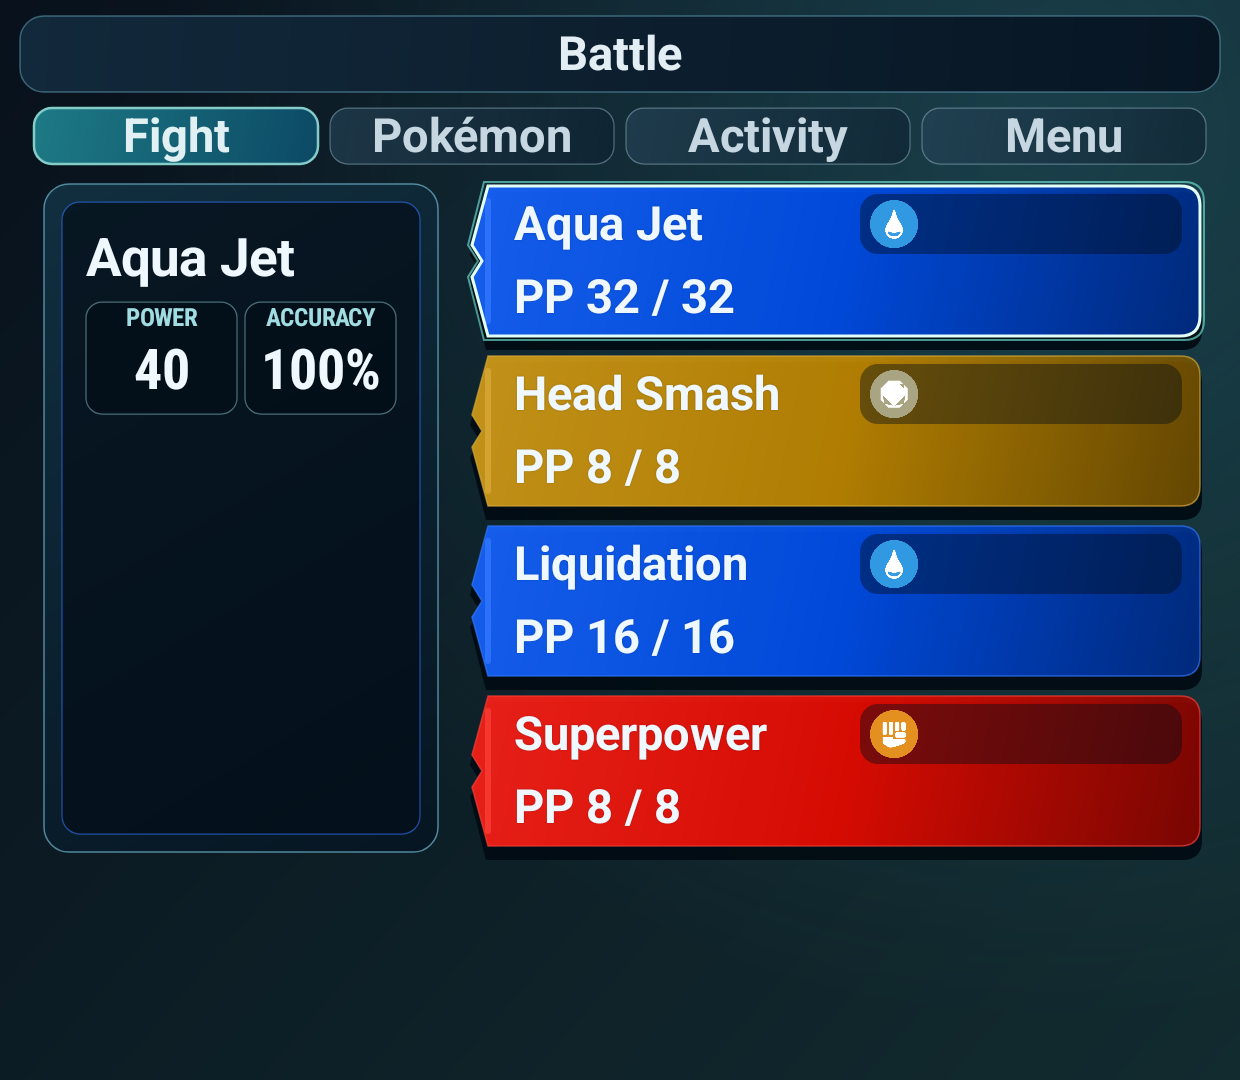
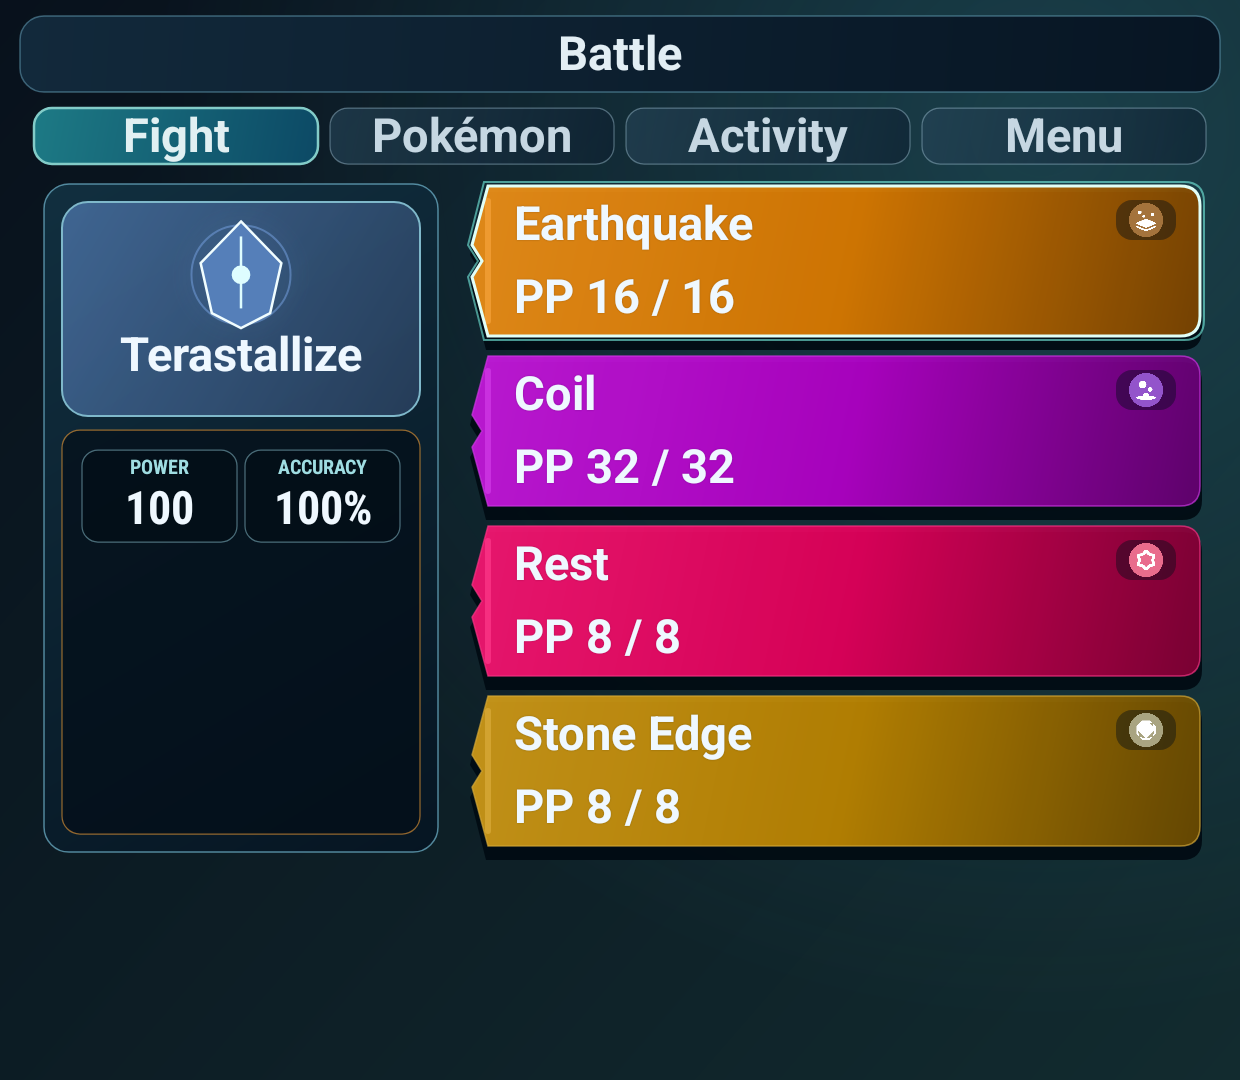
fix: simplify Thor battle controls

diff --git a/app/src/main/kotlin/dev/adrian/showdown/CommandDeckView.kt b/app/src/main/kotlin/dev/adrian/showdown/CommandDeckView.kt
@@ -456,13 +456,7 @@ class CommandDeckView(
             drawCompactMoveDetails(canvas, detailContent, move, scale)
             return
         }
-        paint.textAlign = Paint.Align.LEFT
-        paint.typeface = android.graphics.Typeface.create("sans-serif", android.graphics.Typeface.BOLD)
-        paint.textSize = fittedTextSize(move.name, detailContent.width(), readableTextSize(34f, scale, 29f, 20f), 22f * scale)
-        paint.color = PAPER
-        val titleRow = RectF(detailContent.left, detailContent.top, detailContent.right, detailContent.top + if (compact) 58f * scale else 64f * scale)
-        canvas.drawText(move.name, detailContent.left, centeredTextBaseline(titleRow.centerY()), paint)
-        var sectionTop = titleRow.bottom + if (compact) 8f * scale else 12f * scale
+        var sectionTop = detailContent.top
         val metricHeight = if (compact) 92f * scale else 112f * scale
         drawMoveMetrics(
             canvas,
@@ -487,24 +481,8 @@ class CommandDeckView(
         scale: Float
     ) {
         val content = RectF(detailContent)
-        val gap = 8f * scale
-        val rowHeight = ((content.height() - gap) / 2f).coerceAtLeast(1f)
-        var sectionTop = content.top
-        val titleBounds = RectF(content.left, sectionTop, content.right, sectionTop + rowHeight)
-        paint.textAlign = Paint.Align.LEFT
-        paint.typeface = android.graphics.Typeface.create("sans-serif", android.graphics.Typeface.BOLD)
-        paint.textSize = fittedTextSize(
-            move.name,
-            content.width(),
-            readableTextSize(30f, scale, 26f, 16f),
-            20f * scale
-        ).coerceAtMost(rowHeight - 6f * scale)
-        paint.color = PAPER
-        canvas.drawText(move.name, content.left, centeredTextBaseline(titleBounds.centerY()), paint)
-        sectionTop = titleBounds.bottom + gap
         val accuracy = move.accuracy.takeUnless { it == "—" }?.let { "$it%" } ?: "—"
-        val metricsBounds = RectF(content.left, sectionTop, content.right, sectionTop + rowHeight)
-        drawCompactMetricLine(canvas, metricsBounds, "PWR ${move.power}  ·  ACC $accuracy", scale)
+        drawCompactMetricLine(canvas, content, "PWR ${move.power}  ·  ACC $accuracy", scale)
         paint.textAlign = Paint.Align.LEFT
     }
 
@@ -782,13 +760,12 @@ class CommandDeckView(
             paint.style = Paint.Style.FILL
         }
         drawMovePressAnimation(canvas, surface, palette, pressProgress, scale)
-        val typeBadge = RectF(surface.right - 340f * scale, surface.top + 8f * scale, surface.right - 18f * scale, surface.top + 68f * scale)
+        val iconChip = RectF(surface.right - 84f * scale, surface.top + 14f * scale, surface.right - 24f * scale, surface.top + 54f * scale)
         paint.color = Color.argb(108, 0, 14, 25)
-        canvas.drawRoundRect(typeBadge, 18f * scale, 18f * scale, paint)
+        canvas.drawRoundRect(iconChip, 16f * scale, 16f * scale, paint)
         typeIcon(move.type)?.let { icon ->
             source.set(0, 0, icon.width, icon.height)
-            val iconCenterX = typeBadge.left + 34f * scale
-            destination.set(iconCenterX - 24f * scale, typeBadge.centerY() - 24f * scale, iconCenterX + 24f * scale, typeBadge.centerY() + 24f * scale)
+            destination.set(iconChip.centerX() - 17f * scale, iconChip.centerY() - 17f * scale, iconChip.centerX() + 17f * scale, iconChip.centerY() + 17f * scale)
             paint.alpha = 255
             canvas.drawBitmap(icon, source, destination, paint)
         }
@@ -798,7 +775,7 @@ class CommandDeckView(
         val moveNameLeft = surface.left + 42f * scale
         drawSoftText(
             canvas,
-            fitTextToWidth(move.name, typeBadge.left - moveNameLeft - 16f * scale),
+            fitTextToWidth(move.name, iconChip.left - moveNameLeft - 16f * scale),
             moveNameLeft,
             surface.top + 54f * scale,
             PAPER,
@@ -950,8 +927,15 @@ class CommandDeckView(
             gimmickBounds[index] = card
             val selected = session.selectedGimmick == gimmick
             val glow = (0.56f + 0.44f * kotlin.math.sin(phase * 4f + index)).coerceIn(0f, 1f)
+            val typePalette = if (gimmick == BattleSession.BattleGimmick.TERASTALLIZATION) {
+                movePalette(session.terastallizeType().uppercase())
+            } else {
+                null
+            }
             if (selected) {
-                paint.shader = LinearGradient(
+                paint.shader = typePalette?.let { palette ->
+                    LinearGradient(card.left, card.top, card.right, card.bottom, intArrayOf(palette.highlight, palette.base, palette.shadow), floatArrayOf(0f, 0.52f, 1f), Shader.TileMode.CLAMP)
+                } ?: LinearGradient(
                     card.left,
                     card.top,
                     card.right,
@@ -961,7 +945,9 @@ class CommandDeckView(
                     Shader.TileMode.CLAMP
                 )
             } else {
-                paint.shader = LinearGradient(card.left, card.top, card.right, card.bottom, Color.rgb(39, 70, 88), Color.rgb(13, 31, 47), Shader.TileMode.CLAMP)
+                paint.shader = typePalette?.let { palette ->
+                    LinearGradient(card.left, card.top, card.right, card.bottom, palette.base, palette.shadow, Shader.TileMode.CLAMP)
+                } ?: LinearGradient(card.left, card.top, card.right, card.bottom, Color.rgb(39, 70, 88), Color.rgb(13, 31, 47), Shader.TileMode.CLAMP)
             }
             canvas.drawRoundRect(card, 26f * scale, 26f * scale, paint)
             paint.shader = null
@@ -1147,18 +1133,10 @@ class CommandDeckView(
         paint.strokeWidth = 2.5f * scale
         paint.color = Color.rgb(240, 253, 255)
         canvas.drawPath(crystalPath(centerX, centerY, radius * 1.2f, radius * 1.14f), paint)
-        val icon = typeIcon(type)
-        if (icon != null) {
-            source.set(0, 0, icon.width, icon.height)
-            destination.set(centerX - radius * 0.72f, centerY - radius * 0.58f, centerX + radius * 0.72f, centerY + radius * 0.58f)
-            paint.alpha = 255
-            canvas.drawBitmap(icon, source, destination, paint)
-        } else {
-            paint.style = Paint.Style.FILL
-            paint.color = Color.rgb(222, 253, 255)
-            canvas.drawCircle(centerX, centerY, radius * 0.2f, paint)
-            canvas.drawLine(centerX, centerY - radius * 0.82f, centerX, centerY + radius * 0.72f, paint)
-        }
+        paint.style = Paint.Style.FILL
+        paint.color = Color.rgb(222, 253, 255)
+        canvas.drawCircle(centerX, centerY, radius * 0.2f, paint)
+        canvas.drawLine(centerX, centerY - radius * 0.82f, centerX, centerY + radius * 0.72f, paint)
         paint.style = Paint.Style.FILL
     }
 

diff --git a/README.md b/README.md
@@ -2,10 +2,14 @@
 
 Native Android Pokémon Showdown client for the AYN Thor dual-screen handheld.
 
-<div align="center">
-  <img src="media/showdown-upper.png" alt="Showdown battle on the upper display" width="100%"><br>
+<p align="center">
+  <strong>Upper display</strong><br>
+  <img src="media/showdown-upper.png" alt="Showdown battle on the upper display" width="100%">
+</p>
+<p align="center">
+  <strong>Lower display</strong><br>
   <img src="media/showdown-lower.png" alt="Showdown move controls on the lower display" width="64.6%">
-</div>
+</p>
 
 ## Hardware target
 
